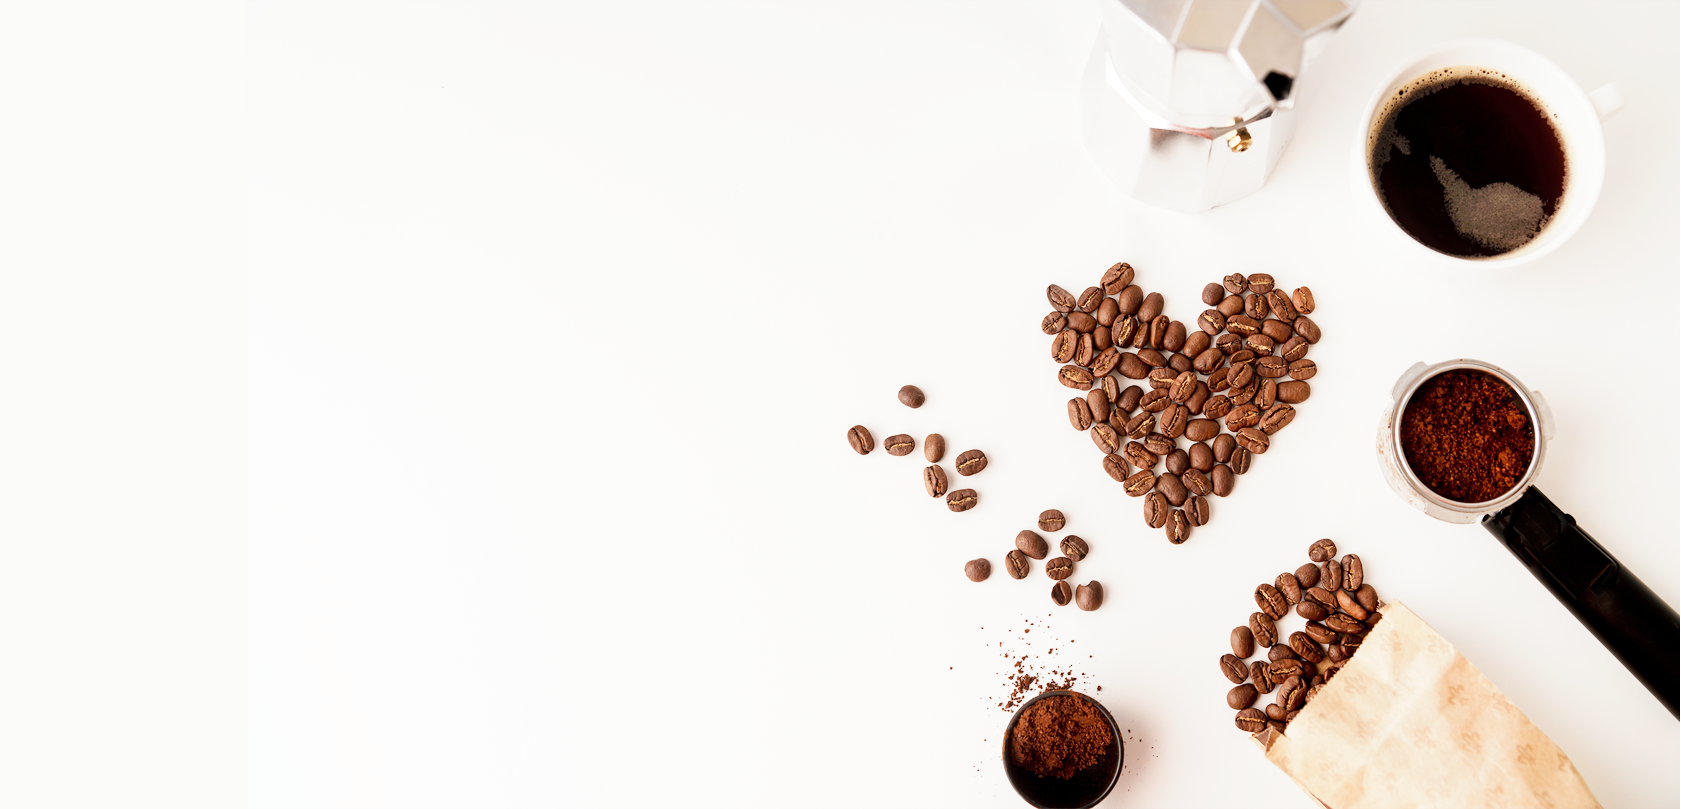
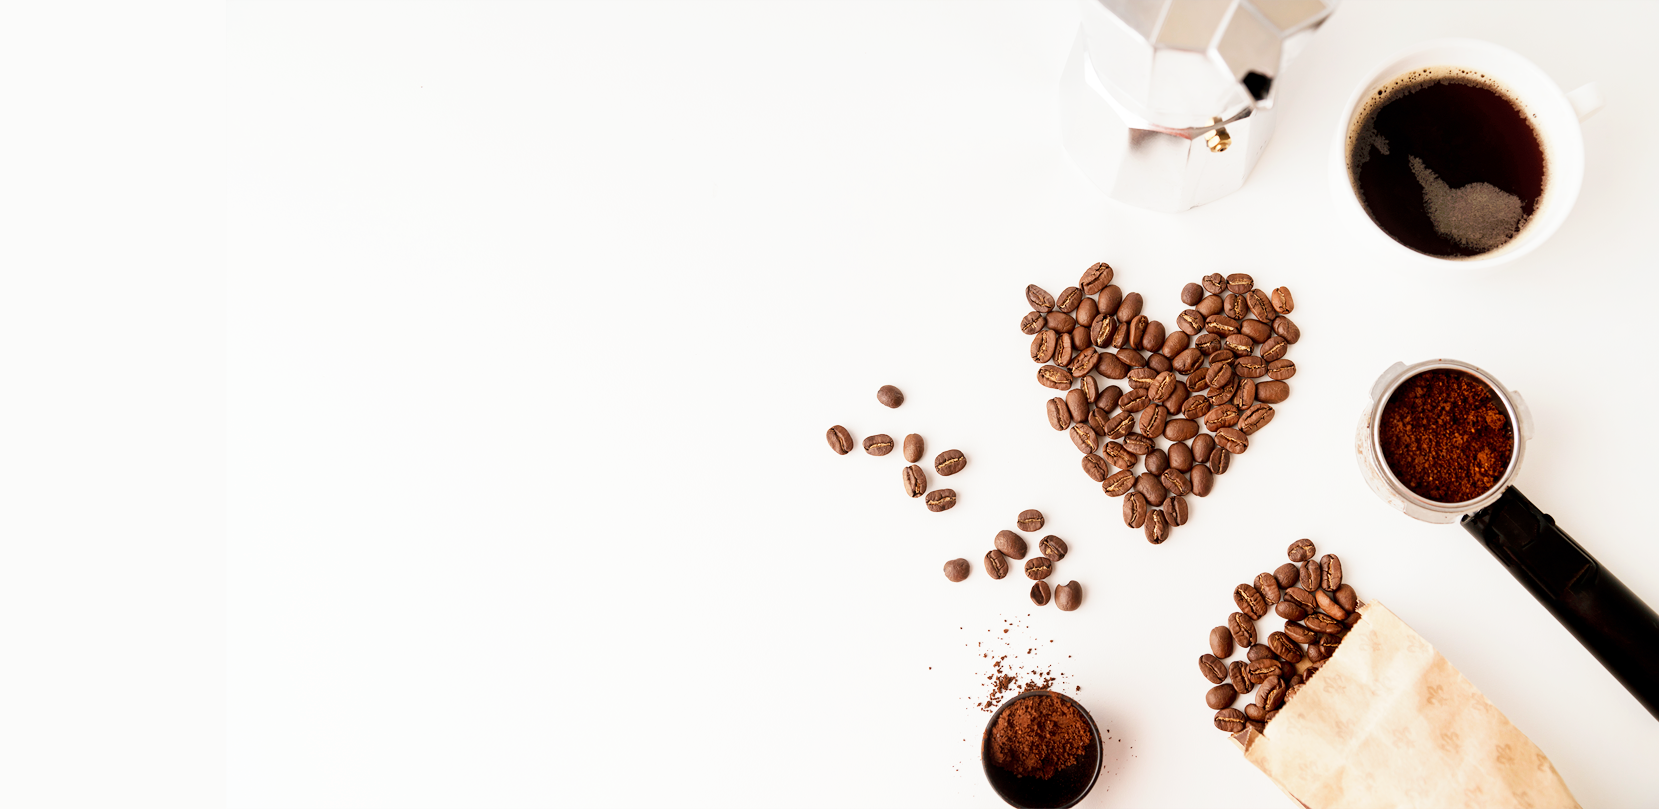
added new layout

diff --git a/src/components/FirstSection.vue b/src/components/FirstSection.vue
@@ -1,0 +1,76 @@
+<template>
+  <div class="first-section">
+    <div class="first-section-left">
+      <h2>Dark Coffees</h2>
+      <Button />
+    </div>
+
+    <div class="first-section-center">
+      <img class="coffee" src="../../public/img/Coffee1.png" alt="" />
+    </div>
+    <div class="first-section-right">
+      <p>
+        Lorem ipsum dolor sit amet, consectetur adipis cing elit, sed do eiusmod
+        tempor incididunt ut labore et dolore magna aliqua. Ut enim ad minim
+        veniam, quis nostrud exercitation ullamco laboris nisi ut aliquip ea
+        commodo consequat. Duis aut dolor in reprehenderit in voluptate velit
+        esse cillum dolore eu fugiat nulla pariatur. Excepteur occaecat
+        cupidatat non proident, sunt in culpa qui officia deserunt mollit anim
+        id est laborum
+      </p>
+    </div>
+  </div>
+</template>
+
+<script>
+import Button from "@/components/Button.vue";
+export default {
+  name: "FirstSection",
+  components: {
+    Button,
+  },
+};
+</script>
+
+<style scoped>
+.first-section {
+  display: flex;
+  justify-content: space-between;
+  align-items: center;
+  height: 100vh;
+  background-color: #fefbfa;
+  background-image: url("../../public/img/Shape.png");
+  background-repeat: no-repeat;
+  /* background-size: contain; */
+  background-position: right;
+}
+
+.first-section-left {
+  width: 350px;
+  margin-left: 3rem;
+}
+
+.first-section-left h2 {
+  width: 350px;
+  font-family: "Cormorant Upright", serif;
+  font-style: italic;
+  color: #1d2440;
+  font-size: 7.5rem;
+  line-height: 6.5rem;
+  padding-bottom: 6rem;
+}
+
+.first-section-right {
+  width: 600px;
+}
+
+.first-section-right p {
+  color: #fff;
+  font-family: 'Noto Sans', sans-serif; 
+  font-weight: 100;
+  text-align: right;
+  line-height: 2.2rem;
+ padding-right: 3rem;
+ font-size: 1.5rem;
+}
+</style>

diff --git a/src/App.vue b/src/App.vue
@@ -1,14 +1,17 @@
 <template>
   <TheHeader />
   <router-view />
+  <FirstSection />
 </template>
 
 <script>
 import TheHeader from "@/components/TheHeader.vue";
+import FirstSection from "@/components/FirstSection.vue"
 
 export default {
   components: {
     TheHeader,
+    FirstSection
   },
 };
 </script>

diff --git a/src/components/Button.vue b/src/components/Button.vue
@@ -17,5 +17,11 @@ button {
   background-color: #ff540e;
   color: #fff;
   padding: 0.4rem 2.2rem;
+  cursor: pointer;
+}
+
+button:hover {
+  background-color: #fc7039;
+  transition: 0.5s;
 }
 </style>

diff --git a/src/components/TheHeader.vue b/src/components/TheHeader.vue
@@ -32,7 +32,6 @@ export default {
   height: 100vh;
   background-image: url("../../public/img/Background.png");
   background-size: 100%;
-  background: cover;
   background-repeat: no-repeat;
 }
 
